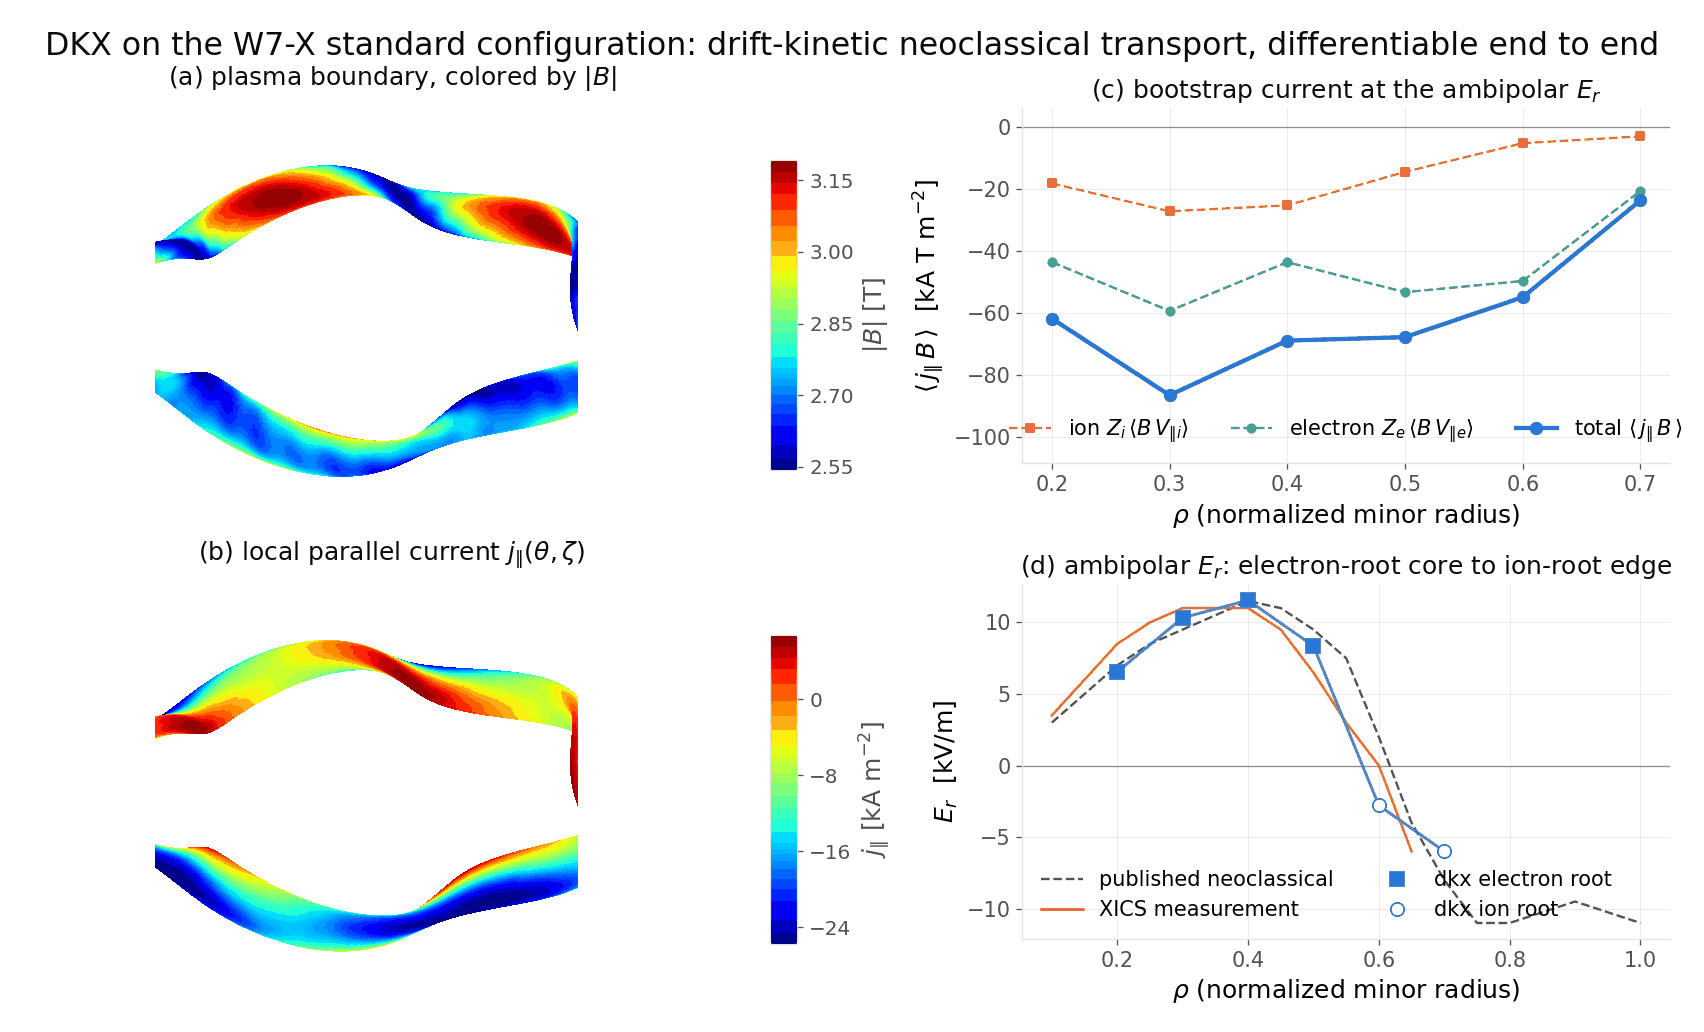
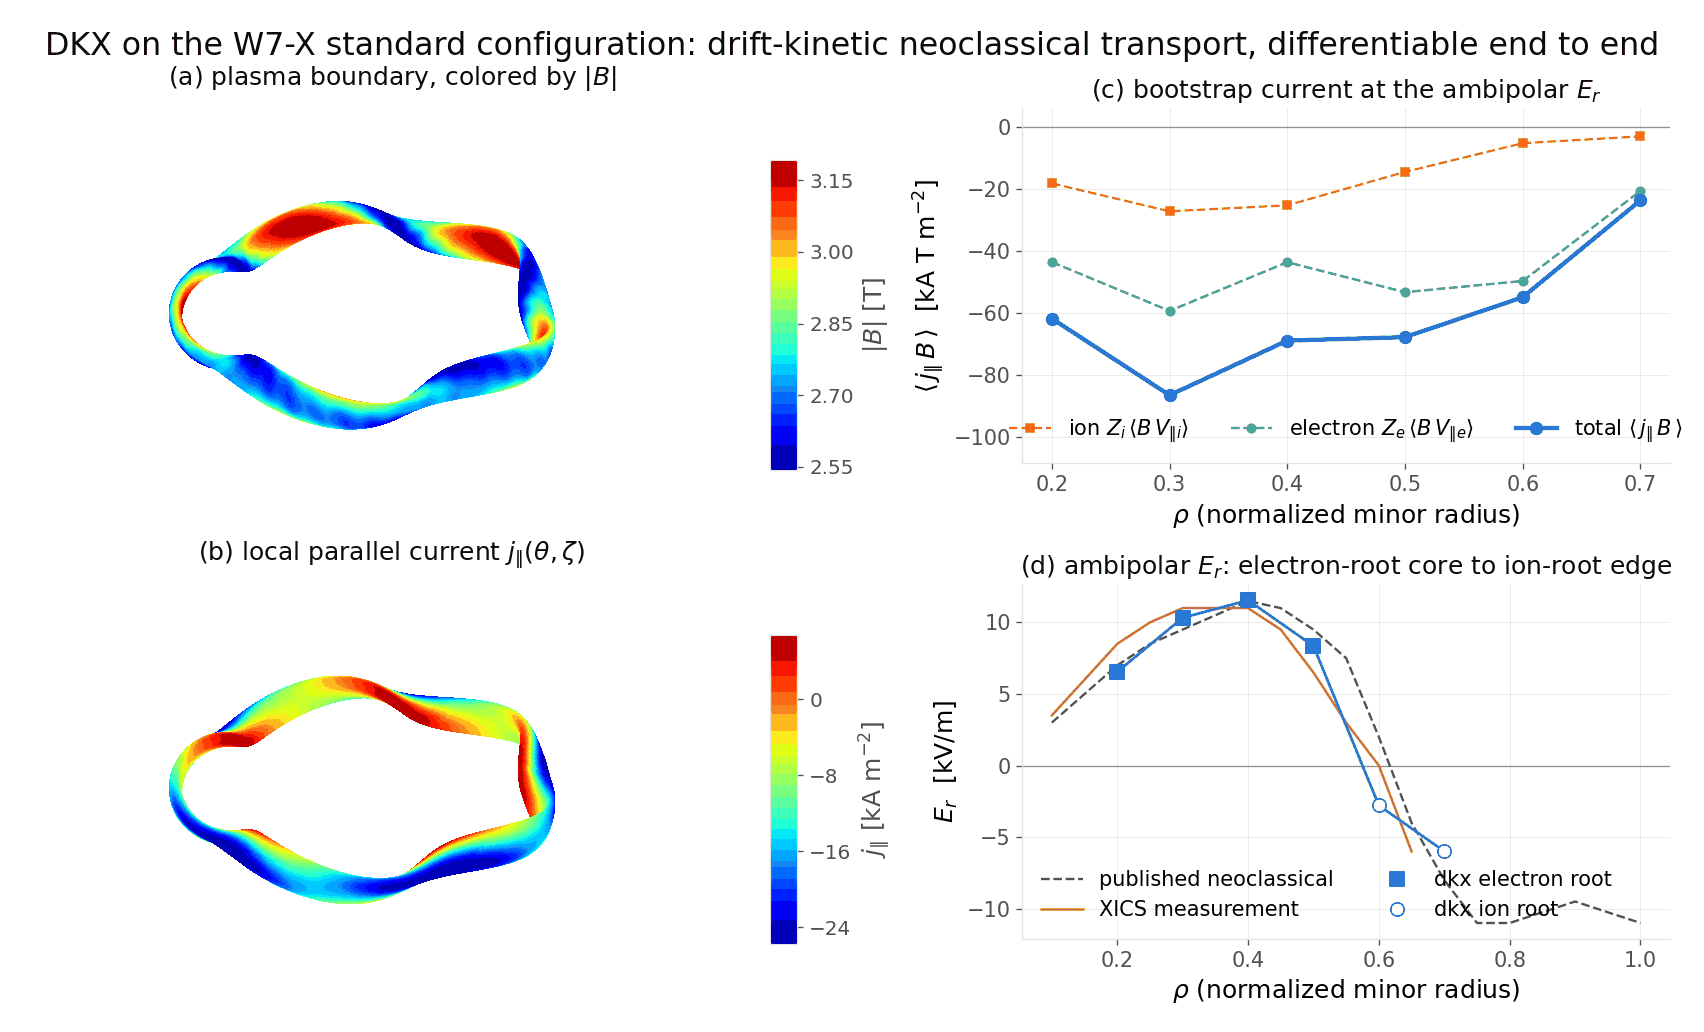
README hero: zoom the toruses out so the full W7-X boundary fits without side clipping
Reduce the 3-D box zoom (1.7 -> 1.25) so the complete five-field-period W7-X
boundary shows in both the |B| and parallel-current panels with margin; the
sides were being cropped. Re-render only (checkpointed solve reused).

diff --git a/tools/benchmarks/readme_showcase_w7x.py b/tools/benchmarks/readme_showcase_w7x.py
@@ -93,7 +93,7 @@ N_ZETA_3D = 561
 VIEW_ELEV = 31.0
 VIEW_AZIM = -58.0
 CMAP_3D = "jet"
-BOX_ZOOM = 1.7  # enlarge the flat W7-X torus so it fills its 3-D axes without cramping
+BOX_ZOOM = 1.25  # fit the full W7-X torus width with margin, no side clipping
 
 # --- Left-column 3-D panel geometry (figure fraction) -----------------------
 # Oversized axes with a title just above and a vertical colorbar snug to the
